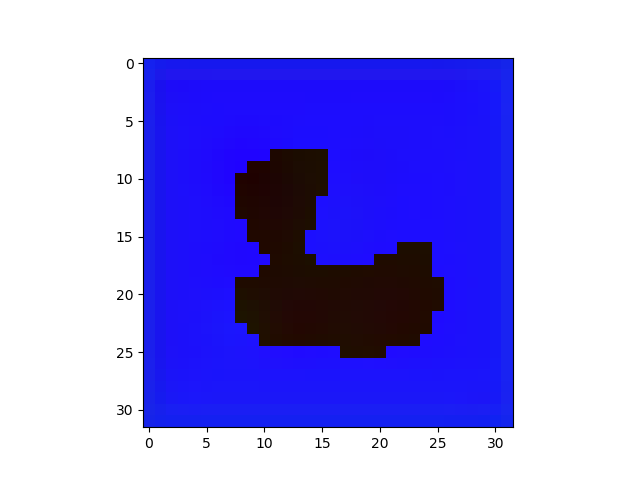
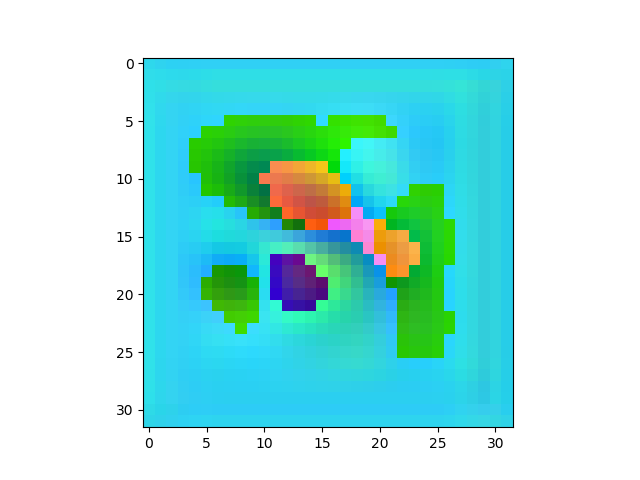
Out of memory, but produces things

diff --git a/problem3/gan.py b/problem3/gan.py
@@ -13,23 +13,24 @@ import random
 
 from torch.autograd import Variable
 from tqdm import tqdm
+from assignment.problem3.memory_management_utils import dump_tensors
 
 
 class Discriminator(nn.Module):
     def __init__(self):
         super(Discriminator, self).__init__()
         # Several-layer MLP for now
-        self.fc1 = nn.Linear(3072, 3)
-        #self.fc2 = nn.Linear(128, 32)
-        #self.fc3 = nn.Linear(32, 16)
-        self.fc4 = nn.Linear(3, 1)
+        self.fc1 = nn.Linear(3072, 4)
+        #self.fc2 = nn.Linear(32, 16)
+        #self.fc3 = nn.Linear(16, 4)
+        self.fc4 = nn.Linear(4, 1)
         self.relu = nn.ReLU()
         self.sigmoid = nn.Sigmoid()
 
-        #torch.nn.init.xavier_uniform_(self.fc1.weight)
+        torch.nn.init.xavier_uniform_(self.fc1.weight)
         #torch.nn.init.xavier_uniform_(self.fc2.weight)
         #torch.nn.init.xavier_uniform_(self.fc3.weight)
-        #torch.nn.init.xavier_uniform_(self.fc4.weight)
+        torch.nn.init.xavier_uniform_(self.fc4.weight)
 
     def forward(self, inp):
         # Save for gradient penalty
@@ -60,11 +61,16 @@ class Generator(nn.Module):
         self.fc = nn.Linear(in_features=100, out_features=16)
         self.elu = nn.ELU()
         self.up = nn.UpsamplingBilinear2d(scale_factor=2)
-        self.conv1 = nn.Conv2d(in_channels=16, out_channels=3, kernel_size=3, padding=4)
-        self.conv2 = nn.Conv2d(in_channels=3, out_channels=3, kernel_size=4, padding=2)
+        self.conv1 = nn.Conv2d(in_channels=16, out_channels=8, kernel_size=3, padding=4)
+        self.conv2 = nn.Conv2d(in_channels=8, out_channels=3, kernel_size=4, padding=2)
         self.conv3 = nn.Conv2d(in_channels=3, out_channels=3, kernel_size=3, padding=2)
         #self.conv4 = nn.Conv2d(in_channels=3, out_channels=3, kernel_size=2, padding=2)
         self.sigmoid = nn.Sigmoid()
+
+        torch.nn.init.xavier_uniform_(self.fc.weight)
+        torch.nn.init.xavier_uniform_(self.conv1.weight)
+        torch.nn.init.xavier_uniform_(self.conv2.weight)
+        torch.nn.init.xavier_uniform_(self.conv3.weight)
 
     def forward(self, inp):
         #print('In generator.')
@@ -150,12 +156,12 @@ class GAN():
     def get_noise(self, batch_size):
         return Variable(torch.randn(batch_size, 100, device=self.device))
 
-    def train(self, train_loader, valid_loader, loss_fn=None, num_epochs=30, d_update=3):
+    def train(self, train_loader, valid_loader, loss_fn=None, num_epochs=5, d_update=1):
         '''
         Wrapper function for training on training set + evaluation on validation set.
         '''
-        d_optimizer = torch.optim.SGD(self.model.discriminator.parameters(), lr=1e-5)
-        g_optimizer = torch.optim.SGD(self.model.generator.parameters(), lr=1e-5)
+        d_optimizer = torch.optim.Adam(self.model.discriminator.parameters(), lr=1e-3)
+        g_optimizer = torch.optim.Adam(self.model.generator.parameters(), lr=1e-3)
 
         for epoch in range(num_epochs):
             d_train_loss, g_train_loss = self.train_epoch(train_loader,
@@ -172,8 +178,14 @@ class GAN():
             self.g_valid_losses.append(g_valid_loss)
 
             print('Epoch {}:'.format(epoch))
+            #print('  \t d_train_loss: {}'.format(d_train_loss))
+            #print('  \t g_train_loss: {}'.format(g_train_loss))
             print(' \t d_train_loss: {} \t d_valid_loss: {}'.format(d_train_loss, d_valid_loss))
             print(' \t g_train_loss: {} \t g_valid_loss: {}'.format(g_train_loss, g_valid_loss))
+
+            self.save_model('gan.pt')
+
+            dump_tensors()
 
     def train_epoch(self, train_loader, loss_fn=None, d_optimizer=None, g_optimizer=None, d_update=None):
         '''
@@ -259,8 +271,7 @@ class GAN():
         t = random.uniform(0, 1)
         x_hat = (t * fake) + ((1 - t) * real)
         d_x_hat = self.model.discriminator(x_hat)
-        #print('d_x_hat:', d_x_hat)
-        grad = torch.autograd.grad(d_x_hat.mean(), self.model.discriminator.d_inp, retain_graph=True)
+        grad = torch.autograd.grad(d_x_hat.mean(), self.model.discriminator.d_inp, retain_graph=True, create_graph=True)[0]
         return grad
 
     def discriminator_ce(self, d_real, d_fake):
@@ -288,8 +299,9 @@ class GAN():
 
         # Get the WGAN-GP error.
         grad = self.get_gpgrad(real, fake)
+        d_optimizer.zero_grad()
         err = loss_fn(d_real, d_fake, grad=grad, objective='max')
-        err.backward()
+        err.backward(retain_graph=False)
 
         # Also get the cross-entropy error.
         ce = self.discriminator_ce(d_real, d_fake)

diff --git a/problem3/log/plot.py b/problem3/log/plot.py
@@ -1,0 +1,53 @@
+'''
+Script to plot GAN learning curves.
+'''
+
+import matplotlib.pyplot as plt
+
+if __name__ == '__main__':
+    # Read the log file
+    with open('gan_learning_curves.log', 'r') as fp:
+        lines = fp.readlines()[1:]  # Exclude header
+    epochs = []
+    d_train_loss, d_valid_loss = [], []
+    g_train_loss, g_valid_loss = [], []
+    for line in lines[:-1]:         # Exclude final blank line
+        line_split = line.split(',')
+        line_split = [float(item) for item in line_split]
+        epochs.append(line_split[0])
+        d_train_loss.append(line_split[1])
+        d_valid_loss.append(line_split[2])
+        g_train_loss.append(line_split[3])
+        g_valid_loss.append(line_split[4])
+
+    # Plot curves
+    plt.title('WGAN-GP Losses')
+    plt.plot(epochs, d_train_loss, color='green', linestyle='-', label='Disc. train')
+    plt.plot(epochs, d_valid_loss, color='green', linestyle='--', label='Disc. valid')
+    plt.plot(epochs, g_train_loss, color='orange', linestyle='-', label='Gen. train')
+    plt.plot(epochs, g_valid_loss, color='orange', linestyle='--', label='Gen. valid')
+    plt.xlabel('Epochs')
+    plt.ylabel('WGAN-GP loss')
+    plt.legend()
+    plt.savefig('gan_learning_curves.png')
+    plt.clf()
+
+    # Now read the cross-entropy log file
+    with open('gan_d_crossentropy.log', 'r') as fp:
+        lines = fp.readlines()[1:]  # Exclude header
+    d_train_ce, d_valid_ce = [], []
+    for line in lines[:-1]:         # Exclude final blank line
+        line_split = line.split(',')
+        line_split = [float(item) for item in line_split]
+        d_train_ce.append(line_split[1])
+        d_valid_ce.append(line_split[2])
+
+    # Plot it too
+    plt.title('Discriminator Cross-Entropy Loss')
+    plt.plot(epochs, d_train_ce, color='green', linestyle='-', label='Disc. train')
+    plt.plot(epochs, d_valid_ce, color='green', linestyle='--', label='Disc.valid')
+    plt.xlabel('Epochs')
+    plt.ylabel('Cross-entropy loss')
+    plt.legend()
+    plt.savefig('gan_d_crossentropy.png')
+    plt.clf()

diff --git a/problem3/memory_management_utils.py b/problem3/memory_management_utils.py
@@ -1,0 +1,40 @@
+import torch
+
+
+def pretty_size(size):
+    """Pretty prints a torch.Size object"""
+    assert (isinstance(size, torch.Size))
+    return " × ".join(map(str, size))
+
+
+def print_gpu_memory():
+    return "Memory allocated: {} Memory cached: {}".format(torch.cuda.memory_allocated(0), torch.cuda.memory_cached(0))
+
+
+def dump_tensors(gpu_only=True):
+    """Prints a list of the Tensors being tracked by the garbage collector."""
+    import gc
+    total_size = 0
+    for obj in gc.get_objects():
+        try:
+            if torch.is_tensor(obj):
+                if not gpu_only or obj.is_cuda:
+                    print("%s:%s%s %s" % (type(obj).__name__,
+                                          " GPU" if obj.is_cuda else "",
+                                          " pinned" if obj.is_pinned else "",
+                                          pretty_size(obj.size())))
+                    total_size += obj.numel()
+            elif hasattr(obj, "data") and torch.is_tensor(obj.data):
+                if not gpu_only or obj.is_cuda:
+                    print("%s → %s:%s%s%s%s %s" % (type(obj).__name__,
+                                                   type(obj.data).__name__,
+                                                   " GPU" if obj.is_cuda else "",
+                                                   " pinned" if obj.data.is_pinned else "",
+                                                   " grad" if obj.requires_grad else "",
+                                                   " volatile" if obj.volatile else "",
+                                                   pretty_size(obj.data.size())))
+                    total_size += obj.data.numel()
+        except Exception as e:
+            pass
+    print("Total size:", total_size)
+    print(" Memory usage :", print_gpu_memory())

diff --git a/problem3/q3_1_gan.py b/problem3/q3_1_gan.py
@@ -10,32 +10,29 @@ from assignment.problem3.gan import GAN
 from assignment.problem3.dataloaders import get_loaders
 
 
-def wgan_gp(Dx, DGy, grad=None, lamb=15, objective='max'):
+def wgan_gp(Dx, DGy, grad=None, lamb=30, objective='max'):
     '''
     Maximize the WGAN objective with gradient penalty
     https://arxiv.org/pdf/1704.00028.pdf
     '''
     if objective == 'max':
         # We are coming from the discriminator.
-        grad = grad[0]  # Take first item in mysterious tuple
-        grad_penalty = lamb * (torch.norm(grad, 2) - 1).pow(2).mean()
-        #print('norm:', torch.norm(grad, 2))
-        #print('grad penalty:', grad_penalty)
-        #print('DGy:', DGy)
-        #print('DGy mean:', DGy.mean())
-        #print('Dx:', Dx.mean())
-        loss = DGy.mean() - Dx.mean() + grad_penalty
-        #loss = -1 * loss
+        grad_penalty = lamb * (torch.norm(grad, dim=1) - 1).pow(2).mean()
+        print(grad_penalty)
+        #loss = DGy.mean() - Dx.mean() + grad_penalty
+        loss = Dx.mean() - DGy.mean() - grad_penalty
+        loss = -1 * loss
     elif objective == 'min':
         # We are coming from the generator -- the other terms in the loss don't matter.
-        loss = -1 * DGy.mean()
+        #loss = -1 * DGy.mean()
+        loss = DGy.mean()
     return loss
 
 
 if __name__ == '__main__':
     # Get the dataloaders for SVHN
     print('Getting dataloaders...')
-    train_loader, valid_loader, test_loader = get_loaders(batch_size=8)
+    train_loader, valid_loader, test_loader = get_loaders(batch_size=256)
 
     # Instantiate and train GAN
     device = torch.device('cuda' if torch.cuda.is_available() else 'cpu')

diff --git a/problem3/dataloaders.py b/problem3/dataloaders.py
@@ -21,8 +21,8 @@ def get_loaders(batch_size=100, valid_split=0.2, transform=None):
     valid = datasets.SVHN(root='SVHN', split='train', download=False, transform=transform)
 
     # Need to sample indices randomly from the training set
-    len_train = 1000#len(train)
-    #len_train = len(train)
+    #len_train = 1000#len(train)
+    len_train = len(train)
     indices = list(range(len_train))
     split = int(np.floor(valid_split * len_train))
     np.random.seed(0)
